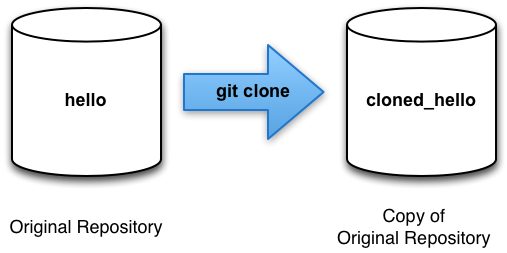
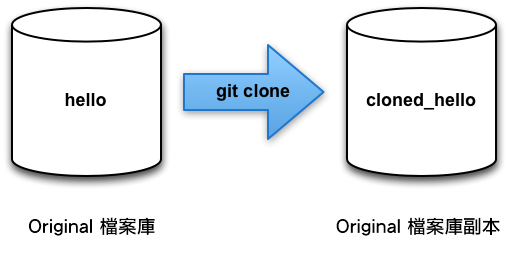
Translate 49 ~ 53 and modify picture.

Changed region(s): [[0.6509, 0.83, 1.0, 0.996], [0.0, 0.8577, 0.3254, 0.9407]]

diff --git a/html/lab_50.html b/html/lab_50.html
@@ -1,7 +1,7 @@
 <!DOCTYPE html>
 <html>
 <head>
-  <title>Lab 50 - Git Immersion - Brought to you by EdgeCase</title>
+  <title>章節 50 - Git Immersion - Brought to you by EdgeCase</title>
   <meta http-equiv="X-UA-Compatible" content="IE=edge,chrome=1">
   <meta name="viewport" content="width=device-width, initial-scale=1.0">
   <link rel="stylesheet" media="screen" href="screen.css">
@@ -48,24 +48,24 @@
 
   <div id="main_content">
     <h1 class="lab_title"><em>章節 50</em>  建立 Git 檔案庫伺服器</h1>
-<h3>Goals</h3>
+<h3>學習目標</h3>
 <ul>
-	<li>Learn how to setup git server for sharing repositories.</li>
+	<li>了解如何設定 git 伺服器來分享檔案庫。</li>
 </ul>
-<p>There are many ways to share git repositories over the network. Here is a quick and dirty way.</p>
-<h2>Start up the git server <em>01</em></h2>
-<h4>Execute:</h4>
-<pre class="instructions"># (From the work directory)
+<p>透過網路分享 git 檔案庫有很多方式。 這邊介紹一個快速但不恰當的方法。</p>
+<h2>啟動 git 伺服器 <em>01</em></h2>
+<h4>執行:</h4>
+<pre class="instructions"># (從工作目錄)
 git daemon --verbose --export-all --base-path=.</pre>
-<p>Now, in a separate terminal window, go to your work directory</p>
-<h4>Execute:</h4>
-<pre class="instructions"># (From the work directory)
+<p>現在，在另一個獨立的終端機視窗，進入你的工作目錄</p>
+<h4>執行:</h4>
+<pre class="instructions"># (從工作目錄)
 git clone git://localhost/hello.git network_hello
 cd network_hello
 ls</pre>
-<p>You should see a copy of hello project.</p>
-<h2>Pushing to the Git Daemon <em>02</em></h2>
-<p>If you want to push to the git daemon repository, add <code>--enable=receive-pack</code> to the git daemon command.  Be careful because there is no authentication on this server, anyone could push to your repository.</p>
+<p>你應該看到一個 hello 專案的副本。</p>
+<h2>送交到 Git 程序 <em>02</em></h2>
+<p>如果你想送交到 git 程序檔案庫，加入 <code>--enable=receive-pack</code> 到 git 程序命令。 要注意的是此伺服器沒有認證，任何人皆可送交到你的檔案庫。</p>
   </div>
 
   <div id="index">

diff --git a/html/lab_49.html b/html/lab_49.html
@@ -1,7 +1,7 @@
 <!DOCTYPE html>
 <html>
 <head>
-  <title>Lab 49 - Git Immersion - Brought to you by EdgeCase</title>
+  <title>章節 49 - Git Immersion - Brought to you by EdgeCase</title>
   <meta http-equiv="X-UA-Compatible" content="IE=edge,chrome=1">
   <meta name="viewport" content="width=device-width, initial-scale=1.0">
   <link rel="stylesheet" media="screen" href="screen.css">
@@ -48,16 +48,16 @@
 
   <div id="main_content">
     <h1 class="lab_title"><em>章節 49</em>  拉取共享檔案庫的修改</h1>
-<h3>Goals</h3>
+<h3>學習目標</h3>
 <ul>
-	<li>Learn how to pull changes from a shared repository.</li>
+	<li>了解如何從共享的檔案庫拉取修改。</li>
 </ul>
-<p>Quick hop over to the clone repository and let&#8217;s pull down the changes just pushed to the shared repo.</p>
-<h4>Execute:</h4>
+<p>快速跳到副本檔案庫，並讓我們拉下剛才送交到共享檔案庫的修改。</p>
+<h4>執行:</h4>
 <pre class="instructions">cd ../cloned_hello</pre>
-<p style="color:red;"><strong><span class="caps">NOTE</span>: Now in the <em>cloned_hello</em> repo.</strong></p>
-<p>Continue with&#8230;</p>
-<h4>Execute:</h4>
+<p style="color:red;"><strong><span class="caps">注意</span>: 現在位於 <em>cloned_hello</em> 檔案庫。</strong></p>
+<p>繼續&#8230;</p>
+<h4>執行:</h4>
 <pre class="instructions">git remote add shared ../hello.git
 git branch --track shared master
 git pull shared master

diff --git a/html/lab_52.html b/html/lab_52.html
@@ -1,7 +1,7 @@
 <!DOCTYPE html>
 <html>
 <head>
-  <title>Lab 52 - Git Immersion - Brought to you by EdgeCase</title>
+  <title>章節 52 - Git Immersion - Brought to you by EdgeCase</title>
   <meta http-equiv="X-UA-Compatible" content="IE=edge,chrome=1">
   <meta name="viewport" content="width=device-width, initial-scale=1.0">
   <link rel="stylesheet" media="screen" href="screen.css">
@@ -48,18 +48,18 @@
 
   <div id="main_content">
     <h1 class="lab_title"><em>章節 52</em>  進階主題</h1>
-<p>Here are some topics you might want to research on your own:</p>
+<p>這裡有一些你可能想自己研究的主題:</p>
 <ul>
-	<li>Reverting Committed Changes</li>
-	<li>Cross OS Line Endings</li>
-	<li>Remote Servers</li>
-	<li>Protocols</li>
-	<li><span class="caps">SSH</span> Setup</li>
-	<li>Remote Branch Management</li>
-	<li>Finding Buggy Commits (git bisect)</li>
-	<li>Workflows</li>
-	<li>Non-command line tools (gitx, gitk, magit)</li>
-	<li>Working with GitHub</li>
+	<li>回復已送交的修改</li>
+	<li>跨平台換行字元</li>
+	<li>遠端伺服器</li>
+	<li>通訊協定</li>
+	<li><span class="caps">SSH</span> 的設定</li>
+	<li>遠端分支管理</li>
+	<li>找出有問題的送交 (git bisect)</li>
+	<li>工作流程</li>
+	<li>非命令列工具 (gitx, gitk, magit)</li>
+	<li>使用 GitHub 工作</li>
 </ul>
   </div>
 

diff --git a/html/lab_51.html b/html/lab_51.html
@@ -1,7 +1,7 @@
 <!DOCTYPE html>
 <html>
 <head>
-  <title>Lab 51 - Git Immersion - Brought to you by EdgeCase</title>
+  <title>章節 51 - Git Immersion - Brought to you by EdgeCase</title>
   <meta http-equiv="X-UA-Compatible" content="IE=edge,chrome=1">
   <meta name="viewport" content="width=device-width, initial-scale=1.0">
   <link rel="stylesheet" media="screen" href="screen.css">
@@ -48,12 +48,12 @@
 
   <div id="main_content">
     <h1 class="lab_title"><em>章節 51</em>  共享檔案庫</h1>
-<h3>Goals</h3>
+<h3>學習目標</h3>
 <ul>
-	<li>Learn to share repos across <span class="caps">WIFI</span>.</li>
+	<li>了解如何透過 <span class="caps">WIFI</span> 共享檔案庫。</li>
 </ul>
-<p>See if your neighbor is running the git daemon.  Exchange IP addresses and see if you can pull from each other&#8217;s repositories.</p>
-<p class="note"><strong><span class="caps">NOTE</span>:</strong> The gitjour gem is really useful in sharing ad-hoc repositories.</p>
+<p>確認你的朋友是否已執行 git 程序。 交換 IP 位址並看看你可以拉下彼此的檔案庫。</p>
+<p class="note"><strong><span class="caps">注意</span>:</strong> 利用 gitjour gem 透過 ad-hoc 分享檔案庫是非常有用的。</p>
   </div>
 
   <div id="index">

diff --git a/html/lab_53.html b/html/lab_53.html
@@ -1,7 +1,7 @@
 <!DOCTYPE html>
 <html>
 <head>
-  <title>Lab 53 - Git Immersion - Brought to you by EdgeCase</title>
+  <title>章節 53 - Git Immersion - Brought to you by EdgeCase</title>
   <meta http-equiv="X-UA-Compatible" content="IE=edge,chrome=1">
   <meta name="viewport" content="width=device-width, initial-scale=1.0">
   <link rel="stylesheet" media="screen" href="screen.css">
